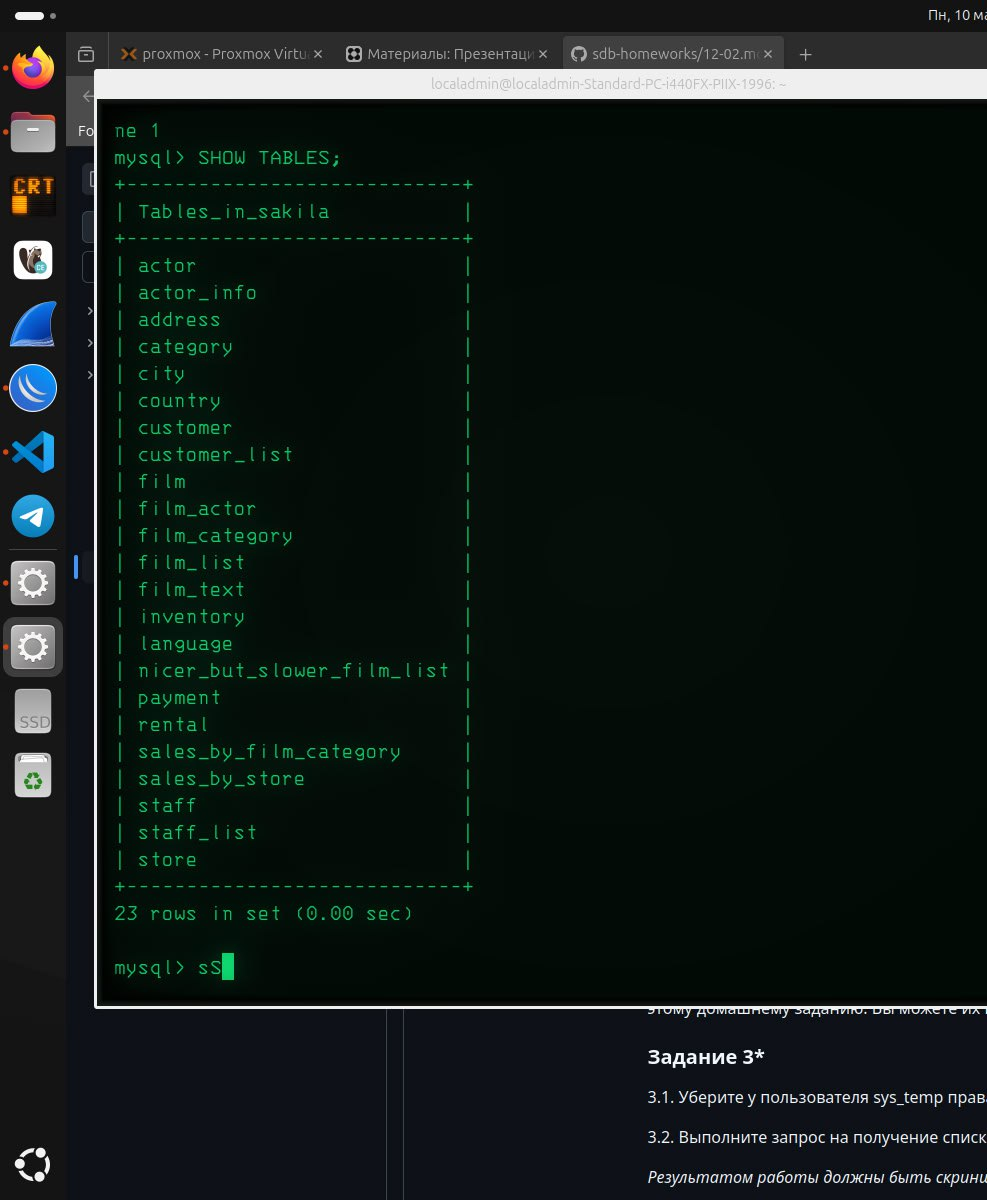
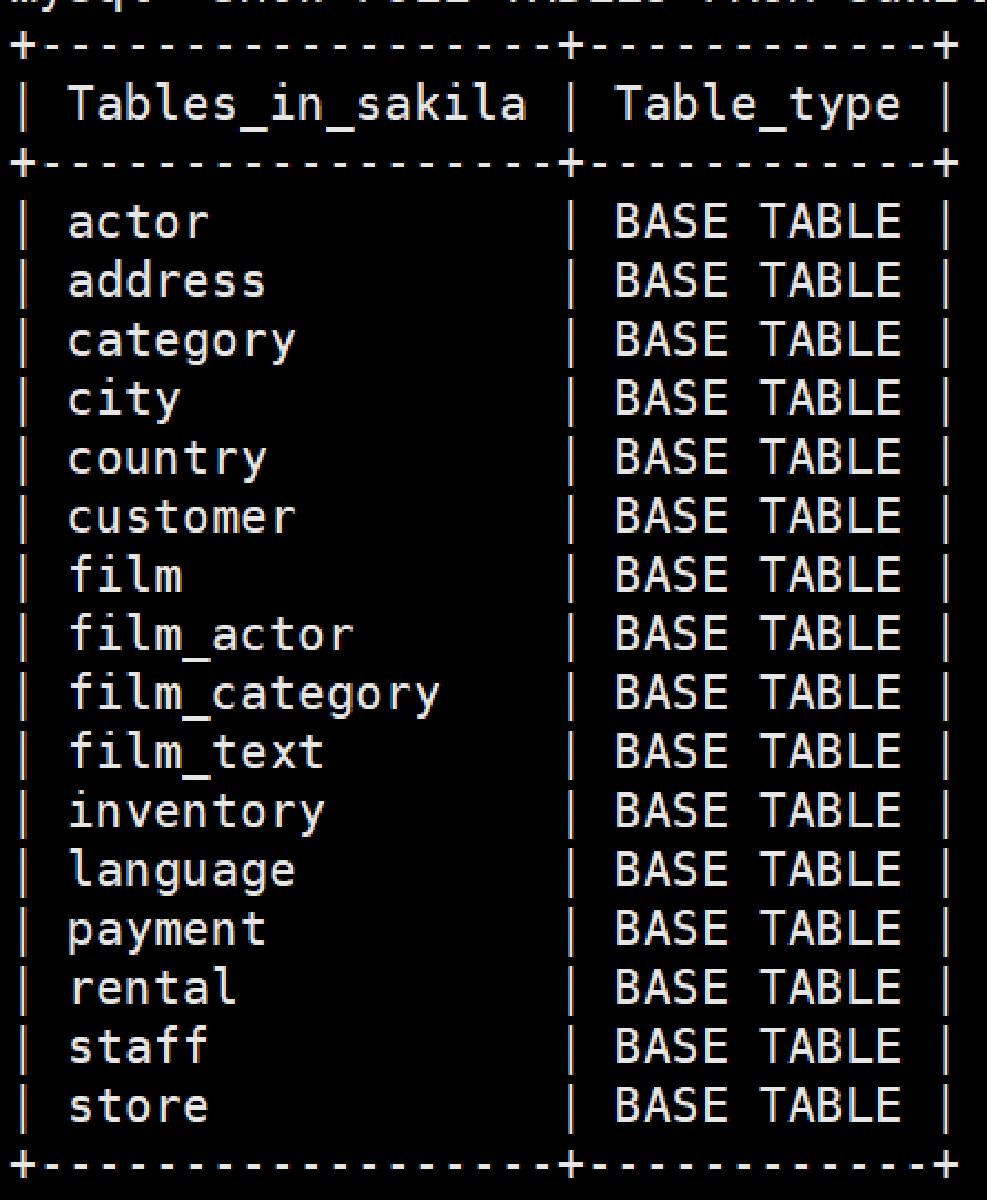
.

diff --git a/README.md b/README.md
@@ -11,7 +11,9 @@
 
 1.4. Дайте все права для пользователя sys_temp.
 
-1.5. Выполните запрос на получение списка прав для пользователя sys_temp. (В скриншоте выше.)
+1.5. Выполните запрос на получение списка прав для пользователя sys_temp. 
+
+![3](https://github.com/AlexandeAbel/ddl-dml/blob/main/img/3.jpg)
 
 1.6. Переподключитесь к базе данных от имени sys_temp.
 
@@ -55,32 +57,25 @@ mysql -u sys_temp -p sakila < sakila-data.sql
 
 1.8
 USE sakila;
-SHOW TABLES;
+SHOW FULL TABLES FROM sakila WHERE Table_type = 'BASE TABLE';
 
 Задание 2.
 Составьте таблицу, используя любой текстовый редактор или Excel, в которой должно быть два столбца: в первом должны быть названия таблиц восстановленной базы, во втором названия первичных ключей этих таблиц. Пример: (скриншот/текст)
 
 Название таблицы | Название первичного ключа
-customer         | customer_id
-
-Acter - actor_id;
-Acter_info - actor_id;
-Address - address_id;
-Category - category_id;
-City - city_id,country_id;
-Country - country_id;
-Customer - customer_id, store_id;
-Customer_list - ID;
-Film - film_id,language_id,original_language_id;
-Film_actor - actor_id, film_id;
-Film_category - film_id, category_id;
-Film-list - FID;
-Film-text - film_id;
-Inventory - inventory_id, film_id, store_id;
-Language - language_id;
-nicer_but_slower_film_list - FID;
-payment - payment_id, customer_id, staff_id, rental_id;
-Rental - retnal_id, inventory_id, customer_id, staff_id;
-Staff - staff_id;
-Staff_list - ID
-Store - store_id,manager_staff_id, address_id
+actor - actor_id.
+address - address_id.
+category - category_id.
+city - city_id.
+country - country_id.
+customer - customer_id.
+film - film.id.
+film_actor - actor_id, film_id.   
+film_category - film_id category_id.
+film_text - film_id.
+inventory - inventory_id.
+language - language_id.
+payment - payment_id.
+rental - rental_id.
+store - store_id.
+staff - staff_id.
